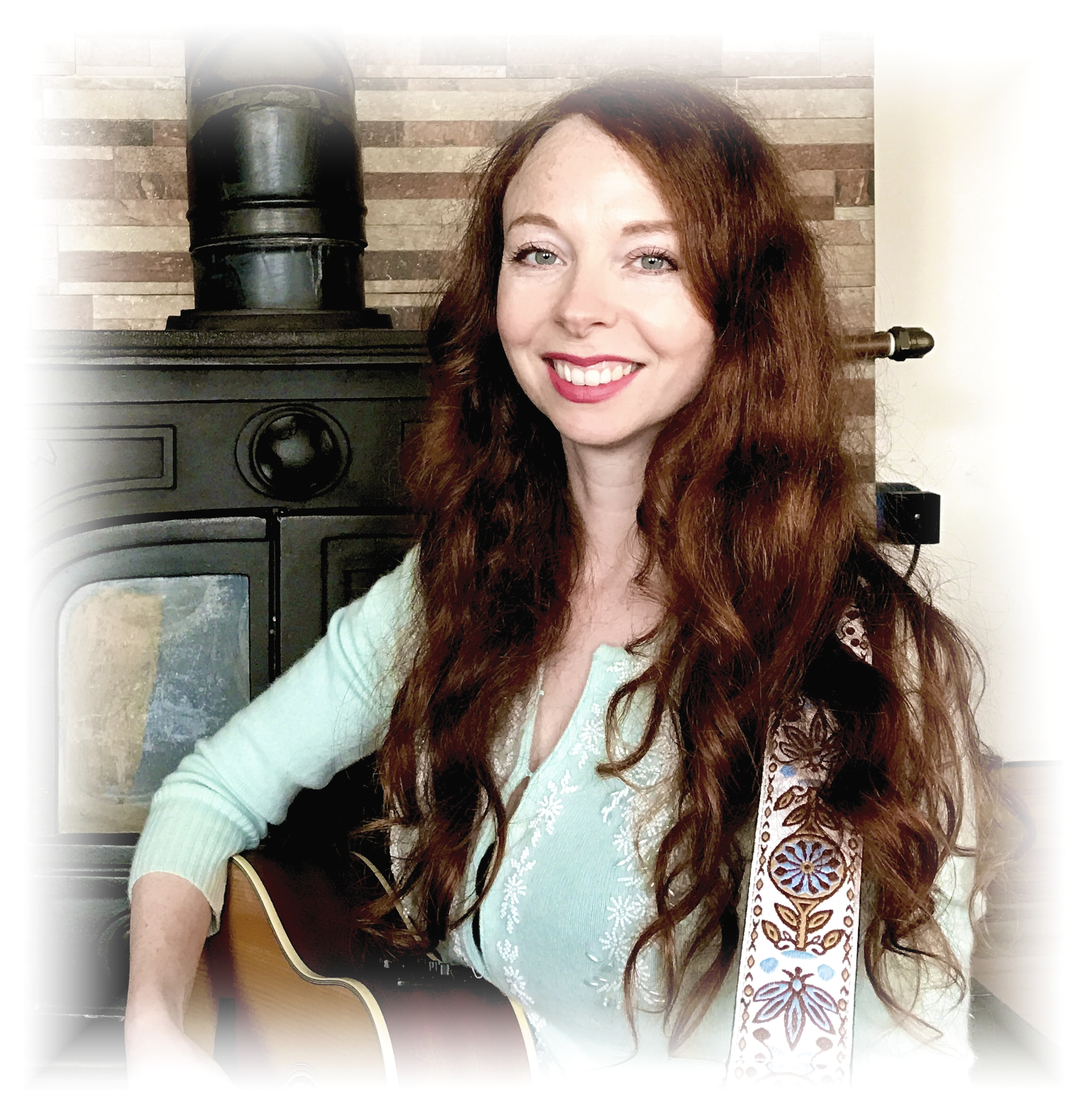
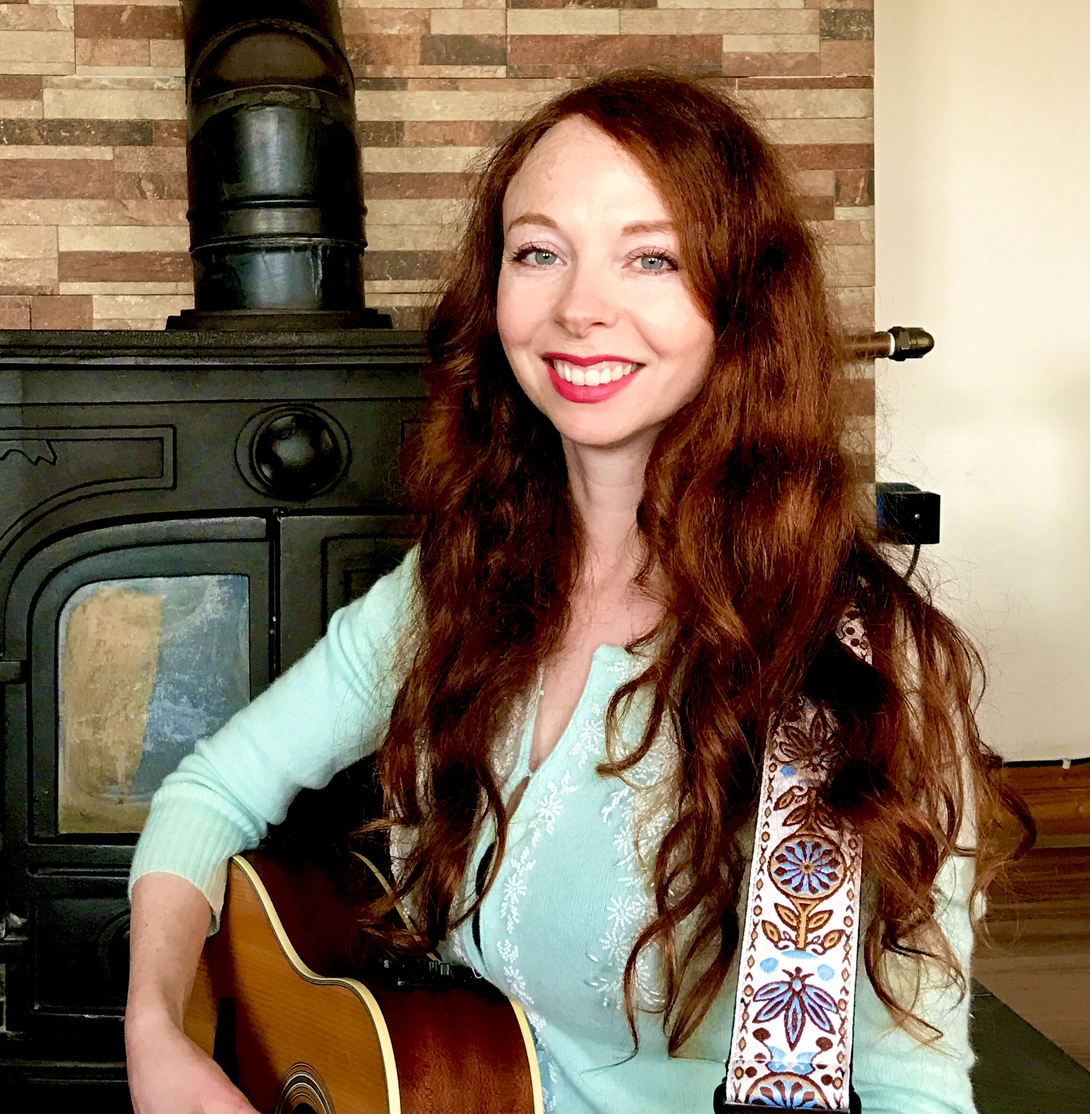
Style newsletter submit button and adjust background image style

diff --git a/assets/css/style.css b/assets/css/style.css
@@ -3,8 +3,7 @@
 
 /* body styling */
 body {
-    position: relative;
-    background: url("../media/images/jo-portrait.jpg") no-repeat center -15%;
+    background: url("../media/images/jo-portrait.jpg") no-repeat center center;
     background-size: cover;
     background-color: rgba(237, 245, 245, 0.4);
 }
@@ -35,6 +34,22 @@ footer {
     justify-content: center;
 }
 
+#logo h1,
+#logo h2 {
+    color: rgb(0, 58, 58);
+}
+
+#logo h1 {
+    font-family: Great Vibes, sans-serif;
+    font-size: 4rem;
+    margin-bottom: 5px;
+    font-weight: bold;
+}
+
+#logo h2 {
+    margin-top: 0;
+}
+
 #logo:hover h1,
 #logo:hover h2 {
     text-shadow: 0px 0px 20px rgba(51, 102, 102, 1);
@@ -44,16 +59,6 @@ footer {
     text-decoration: none;
     text-align: center;
     color: black;
-}
-
-#logo h1 {
-    font-family: Great Vibes, sans-serif;
-    font-size: 2.5rem;
-    margin-bottom: 5px;
-}
-
-#logo h2 {
-    margin-top: 0;
 }
 
 /* nav styling */
@@ -218,8 +223,25 @@ nav ol {
     margin-right: 1%;
 }
 
-#form-button:visited {
-    visibility: hidden;
+#newsletter-submit-button {
+    font-family: Arial, Helvetica, sans-serif;
+    text-transform: uppercase;
+    padding: 0.3em;
+    border: 1px solid rgba(51, 102, 102, .4);
+    background-color: rgba(28, 61, 61, 0.4);
+    border-radius: 10px;
+    margin: 0.5em;
+    text-decoration: none;
+    text-align: center;
+    color: black;
+    box-shadow: none;
+    width: 7rem;
+}
+
+#newsletter-submit-button:hover {
+    border: 1px solid rgba(51, 102, 102, 1);
+    background-color: rgba(74, 105, 105, 0.4);
+    box-shadow: 0px 0px 5px 1px rgb(33, 66, 66);
 }
 
 /* Footer social media styling */
@@ -237,7 +259,7 @@ nav ol {
 }
 
 .social-media-anchor {
-    width: 2rem;
+    width: 3rem;
     padding: 3%
 }
 
@@ -254,7 +276,7 @@ nav ol {
 /* wedding section styling */
 #wedding-gallery-section {
     display: flex;
-    justify-content: space-evenly;
+    justify-content: center;
     flex-wrap: wrap;
 }
 
@@ -288,10 +310,9 @@ label {
 /* For larger screen sizes 900px and up */
 @media screen and (min-width: 900px){
     body {
-        position: relative;
-        background: url("../media/images/jo-on-beach-guitar.jpg") no-repeat center -15%;
-        background-size: cover;
-        background-color: rgba(237, 245, 245, 0.4);
+    background: url("../media/images/jo-on-beach-guitar.jpg") no-repeat center center fixed;
+    background-size: cover;
+    background-color: rgba(237, 245, 245, 0.4);
     }
 
 /* Common header and footer styling */

diff --git a/index.html b/index.html
@@ -51,7 +51,7 @@
                 <p>
                     Jo is a singer songwriter who is passionate about her music. She has been writing her own songs since she was in her early teens and plays the guitar.
                 </p>
-                </p>
+                <p>
                     Jo regularly performs her music at gigs for the public and private events both on her own and with Bridget McMahon in and around the Connacht area in Ireland. 
                 </p>
             </div>
@@ -110,12 +110,13 @@
                 <h2>Newsletter Request</h2>
             </div>
         </div>
-        <!-- action and method properties left out as this is a dummy page and there is no back end server for post processing -->
-        <form class="main-container" id="newsletter-container">
+        <!-- action send to a dunny server and the response is sent to a new tab so the flow of the website stays as it would if there was a real back end server -->
+        <!-- The dummy server is courtesy of https://formdump.codeinstitute.net/ -->
+        <form class="main-container" id="newsletter-container" method="post" action="https://formdump.codeinstitute.net/" target="_blank">
             <div class="main-section" id="newsletter-section">
                 <label for="newsletter-email-id">Email</label>
                 <input type="email" name="newsletter-email" id="newsletter-email-id">
-                <input type="submit" name="newsletter-submit" id="form-button">
+                <input type="submit" name="newsletter-submit" id="newsletter-submit-button">
             </div>
         </form>
     </main>

diff --git a/weddings.html b/weddings.html
@@ -58,8 +58,10 @@
             </div>
         </section>
         <section class="main-container" id="wedding-gallery-container">
-            <div class="main-section" id="wedding-gallery-section">
+            <div class="main-section" class="wedding-gallery-section">
                 <img src="assets/media/images/wedding-ready.jpg" aria-label="Jo ready to perform at a wedding" alt="Jo ready to perform at a wedding" class="wedding-gallery">
+            </div>
+            <div class="main-section" class="wedding-gallery-section">
                 <img src="assets/media/images/wedding-duo.jpg" arialabel="Jo and Bridget McMahon performing at a wedding" alt="Jo and Bridget McMahon performing at a wedding" class="wedding-gallery">
             </div>
         </section>
